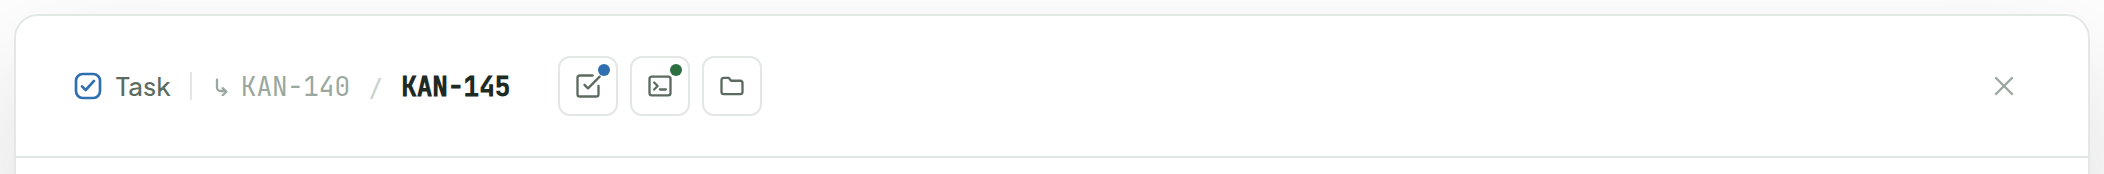
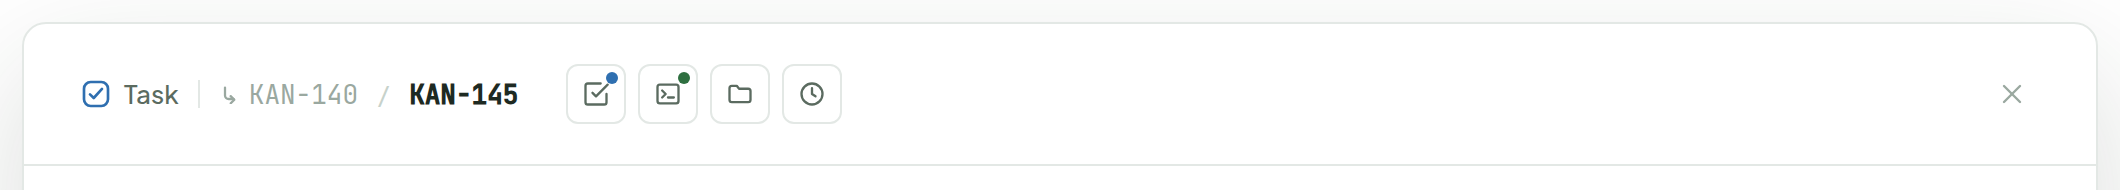
docs(design): add Activity artboard export and refresh Ticket Detail (#121)
Claude-Session: https://claude.ai/code/session_01GwZjC5kBN7drGu9LCscz4N

diff --git a/design/source/Activity.dc.html b/design/source/Activity.dc.html
@@ -1,0 +1,149 @@
+<!doctype html>
+<html lang="en">
+<head>
+  <meta charset="utf-8">
+  <script src="./support.js"></script>
+  <link rel="preconnect" href="https://fonts.googleapis.com">
+  <link href="https://fonts.googleapis.com/css2?family=Plus+Jakarta+Sans:wght@400;500;600;700;800&family=JetBrains+Mono:wght@400;500&display=swap" rel="stylesheet">
+</head>
+<body>
+<x-dc>
+<helmet>
+  <style>
+    body { margin: 0; background: #EEF3EF; font-family: 'Plus Jakarta Sans', system-ui, sans-serif; }
+    .tag-pill { padding: 2px 7px; border-radius: 3px; font-size: 10px; font-weight: 700; text-transform: uppercase; letter-spacing: 0.02em; white-space: nowrap; }
+    .dt-view-btn { display: inline-flex; align-items: center; justify-content: center; width: 30px; height: 30px; padding: 0; border-radius: 6px; border: 1px solid #E3E8E5; background: #FFFFFF; cursor: pointer; color: #5B6B60; position: relative; box-sizing: border-box; }
+    .dt-view-btn:hover { background: #F6FAF7; }
+    .dt-view-btn-active { border-color: #2E6F40; background: #F1F8F3; color: #1E2A22; }
+    .dt-view-dot { width: 6px; height: 6px; border-radius: 50%; position: absolute; top: 3px; right: 3px; }
+    .dt-view-tooltip { position: absolute; top: 36px; left: 0; padding: 5px 9px; border-radius: 6px; background: #1E2A22; color: #FFFFFF; font-size: 11px; white-space: nowrap; opacity: 0; pointer-events: none; z-index: 5; }
+    .dt-view-btn:hover .dt-view-tooltip { opacity: 1; }
+    .dt-id-btn { display: inline-flex; align-items: center; gap: 4px; background: none; border: none; padding: 3px 5px; margin: -3px -5px; border-radius: 5px; cursor: pointer; font-family: 'JetBrains Mono', monospace; font-size: 13px; font-weight: 600; color: #1E2A22; }
+    .dt-id-btn:hover { background: #F6FAF7; }
+    .ac-label { font-size: 10px; font-weight: 700; letter-spacing: 0.08em; text-transform: uppercase; color: #9AA8A0; }
+    .ac-filter { display: inline-flex; align-items: center; gap: 6px; padding: 4px 10px; border-radius: 999px; border: 1px solid #E3E8E5; background: #FFFFFF; cursor: pointer; font-size: 11.5px; font-weight: 600; color: #5B6B60; }
+    .ac-filter:hover { background: #F6FAF7; }
+    .ac-filter-active { border-color: #2E6F40; background: #F1F8F3; color: #1E2A22; }
+    .ac-group { display: flex; flex-direction: column; gap: 6px; }
+    .ac-day { display: flex; align-items: center; justify-content: space-between; padding: 6px 0; border-bottom: 1px solid #EEF3EF; font-size: 11px; font-weight: 700; letter-spacing: 0.06em; text-transform: uppercase; color: #5B6B60; }
+    .ac-day-count { font-size: 10.5px; font-weight: 500; letter-spacing: 0; text-transform: none; color: #9AA8A0; }
+    .ac-list { position: relative; display: flex; flex-direction: column; }
+    .ac-line { position: absolute; left: 13px; top: 20px; bottom: 20px; width: 1px; background: #E3E8E5; }
+    .ac-row { position: relative; display: flex; align-items: center; gap: 14px; padding: 9px 0; }
+    .ac-bubble { width: 28px; height: 28px; border-radius: 50%; display: flex; align-items: center; justify-content: center; flex-shrink: 0; box-shadow: 0 0 0 4px #FFFFFF; position: relative; box-sizing: border-box; }
+    .ac-main { flex: 1; min-width: 0; display: flex; flex-direction: column; gap: 5px; }
+    .ac-field { font-size: 10.5px; font-weight: 700; letter-spacing: 0.06em; text-transform: uppercase; color: #9AA8A0; }
+    .ac-change { display: flex; align-items: center; flex-wrap: wrap; gap: 8px; }
+    .ac-chip { display: inline-flex; align-items: center; gap: 6px; padding: 2px 9px; border-radius: 999px; border: 1px solid #E3E8E5; background: #FFFFFF; font-size: 12px; font-weight: 600; color: #1E2A22; white-space: nowrap; }
+    .ac-time { position: relative; font-family: 'JetBrains Mono', monospace; font-size: 11px; color: #9AA8A0; white-space: nowrap; cursor: default; flex-shrink: 0; }
+    .ac-tt { position: absolute; right: 0; bottom: 20px; padding: 5px 9px; border-radius: 6px; background: #1E2A22; color: #FFFFFF; font-family: 'Plus Jakarta Sans', system-ui, sans-serif; font-size: 11px; line-height: 1.4; white-space: nowrap; opacity: 0; pointer-events: none; z-index: 5; }
+    .ac-time:hover .ac-tt { opacity: 1; }
+    .ac-sk { background: #EEF3EF; display: block; animation: ac-pulse 1.4s ease-in-out infinite; }
+    @keyframes ac-pulse { 0%, 100% { opacity: 1; } 50% { opacity: 0.45; } }
+    .ac-toggle { display: inline-flex; align-items: center; gap: 5px; padding: 2px 8px; border-radius: 5px; border: none; background: none; cursor: pointer; font-size: 11.5px; font-weight: 600; color: #2E6F40; }
+    .ac-toggle:hover { background: #F1F8F3; }
+    .ac-more { display: inline-flex; align-items: center; justify-content: center; gap: 6px; align-self: center; padding: 7px 14px; border-radius: 6px; border: 1px dashed #C7D2CB; background: none; cursor: pointer; font-size: 12px; font-weight: 600; color: #5B6B60; }
+    .ac-more:hover { background: #F6FAF7; }
+  </style>
+</helmet>
+
+<div style="width: 1180px; height: 2300px; box-sizing: border-box; padding: 56px; background: #FFFFFF; display: flex; flex-direction: column; gap: 28px; color: #1E2A22;">
+
+  <div style="display: flex; flex-direction: column; gap: 8px;">
+    <div style="font-family: 'JetBrains Mono', monospace; font-size: 13px; font-weight: 500; letter-spacing: 0.08em; text-transform: uppercase; color: #68BA7F;">Component</div>
+    <h1 style="margin: 0; font-size: 26px; font-weight: 700; color: #1E2A22;">Activity</h1>
+    <div style="font-size: 14px; color: #5B6B60; max-width: 860px; line-height: 1.5;">Grounded in the app's existing <code style="font-family: 'JetBrains Mono', monospace; font-size: 12.5px; background: #F6FAF7; padding: 1px 5px; border-radius: 3px; color: #2E6F40;">ActivityLog.tsx</code> — a read-only history of field changes on a ticket — moved out of the Details column into its own icon button in the Ticket Detail header, like Test Cases, Debug Space and Workspace. Clicking it swaps the whole panel body for a timeline grouped by day.</div>
+  </div>
+
+  <!-- Populated timeline -->
+  <div style="display: flex; flex-direction: column; gap: 10px;">
+    <div style="font-size: 12px; font-weight: 600; color: #5B6B60;">Activity view — grouped by day, newest first (KAN-145)</div>
+    <div style="width: 1038px; border-radius: 12px; border: 1px solid #E3E8E5; box-shadow: 0 24px 64px rgba(30,42,34,0.16); box-sizing: border-box; background: #FFFFFF; overflow: hidden;">
+      <div style="display:flex;align-items:center;gap:24px;padding:20px 28px;border-bottom:1px solid #E3E8E5;">
+      <div style="display:flex;align-items:center;gap:10px;flex-shrink:0;">
+        <div style="display:flex;align-items:center;gap:6px;"><svg width="16" height="16" viewBox="0 0 24 24" fill="none"><rect x="3" y="3" width="18" height="18" rx="5" stroke="#2F6FB0" stroke-width="2"></rect><path d="M7.5 12.3L10.3 15L16.5 8.2" stroke="#2F6FB0" stroke-width="2" stroke-linecap="round" stroke-linejoin="round"></path></svg><span style="font-size:13px;font-weight:500;color:#5B6B60;">Task</span></div>
+        <span style="width:1px;height:14px;background:#E3E8E5;"></span>
+        <button style="display:inline-flex;align-items:center;gap:4px;background:none;border:none;padding:0;cursor:pointer;font-family:'JetBrains Mono',monospace;font-size:13px;color:#9AA8A0;"><svg width="10" height="10" viewBox="0 0 14 14" fill="none" stroke="#9AA8A0" stroke-width="1.6" stroke-linecap="round" stroke-linejoin="round"><path d="M3.5 2.5V8A2.5 2.5 0 0 0 6 10.5H9.5"></path><path d="M7.5 8.5L10 11L7.5 13.5"></path></svg>KAN-140</button>
+        <span style="font-size:13px;color:#C7D2CB;">/</span>
+        <button class="dt-id-btn" title="Back to Details">KAN-145</button>
+      </div>
+      <div style="display:flex;align-items:center;gap:6px;flex-grow:1;"><button class="dt-view-btn" aria-label="Test Cases"><svg width="14" height="14" viewBox="0 0 24 24" fill="none" stroke="currentColor" stroke-width="2" stroke-linecap="round" stroke-linejoin="round"><path d="M9 11L12 14L22 4"></path><path d="M21 12V19A2 2 0 0 1 19 21H5A2 2 0 0 1 3 19V5A2 2 0 0 1 5 3H16"></path></svg><span class="dt-view-dot" style="background:#2F6FB0;"></span><span class="dt-view-tooltip">Test — 1 pass · 1 running · 2 pending</span></button><button class="dt-view-btn" aria-label="Debug Space"><svg width="14" height="14" viewBox="0 0 24 24" fill="none" stroke="currentColor" stroke-width="2" stroke-linecap="round" stroke-linejoin="round"><rect x="3" y="4" width="18" height="16" rx="2"></rect><path d="M7 9L10 12L7 15"></path><path d="M12 15H17"></path></svg><span class="dt-view-dot" style="background:#2E6F40;"></span><span class="dt-view-tooltip">Debug — 2 entries</span></button><button class="dt-view-btn" aria-label="Workspace"><svg width="14" height="14" viewBox="0 0 24 24" fill="none" stroke="currentColor" stroke-width="2" stroke-linecap="round" stroke-linejoin="round"><path d="M3 7C3 5.9 3.9 5 5 5H9.2L11.2 7.5H19C20.1 7.5 21 8.4 21 9.5V17C21 18.1 20.1 19 19 19H5C3.9 19 3 18.1 3 17V7Z"></path></svg><span class="dt-view-tooltip">Workspace — 6 files · 12.4 MB</span></button><button class="dt-view-btn dt-view-btn-active" aria-label="Activity"><svg width="14" height="14" viewBox="0 0 24 24" fill="none" stroke="currentColor" stroke-width="2" stroke-linecap="round" stroke-linejoin="round"><circle cx="12" cy="12" r="9"></circle><path d="M12 7V12L15 14"></path></svg><span class="dt-view-tooltip">Activity — 9 changes</span></button></div>
+      <button aria-label="Close" style="width:28px;height:28px;border-radius:6px;border:none;background:none;display:flex;align-items:center;justify-content:center;cursor:pointer;color:#9AA8A0;flex-shrink:0;"><svg width="16" height="16" viewBox="0 0 24 24" fill="none" stroke="currentColor" stroke-width="1.8" stroke-linecap="round"><path d="M6 6L18 18"></path><path d="M18 6L6 18"></path></svg></button>
+    </div>
+      <div style="padding: 20px 28px 28px; display: flex; flex-direction: column; gap: 16px;">
+        <div style="display: flex; align-items: center; justify-content: space-between;">
+          <span class="ac-label" style="font-size: 11px;">9 changes · KAN-145</span>
+          <div style="display:flex;align-items:center;gap:6px;"><button class="ac-filter ac-filter-active">All (9)</button><button class="ac-filter">Status (1)</button><button class="ac-filter">Assignee (1)</button><button class="ac-filter">Priority (1)</button><button class="ac-filter">Other (6)</button></div>
+        </div>
+        <div class="ac-group"><div class="ac-day"><span>Today</span><span class="ac-day-count">2 changes</span></div><div class="ac-list"><div class="ac-line"></div><div class="ac-row"><div class="ac-bubble" style="background:#E1EEFB;color:#2F6FB0;"><svg width="14" height="14" viewBox="0 0 24 24" fill="none" stroke="currentColor" stroke-width="2" stroke-linecap="round" stroke-linejoin="round"><circle cx="12" cy="12" r="9"></circle><path d="M12 3A9 9 0 0 1 12 21Z" fill="currentColor"></path></svg></div><div class="ac-main"><span class="ac-field">Status</span><div class="ac-change"><span class="ac-chip" style=""><span style="width:7px;height:7px;border-radius:50%;background:#9AA8A0;flex-shrink:0;"></span>To Do</span><svg width="12" height="12" viewBox="0 0 24 24" fill="none" stroke="#9AA8A0" stroke-width="2" stroke-linecap="round" stroke-linejoin="round"><path d="M5 12H19"></path><path d="M13 6L19 12L13 18"></path></svg><span class="ac-chip" style=""><span style="width:7px;height:7px;border-radius:50%;background:#2F6FB0;flex-shrink:0;"></span>In Progress</span></div></div><span class="ac-time">12m ago<span class="ac-tt">Fri, Sep 25 · 9:48 AM</span></span></div><div class="ac-row"><div class="ac-bubble" style="background:#E6E9F5;color:#5B5FA8;"><svg width="14" height="14" viewBox="0 0 24 24" fill="none" stroke="currentColor" stroke-width="2" stroke-linecap="round" stroke-linejoin="round"><circle cx="12" cy="8" r="4"></circle><path d="M4 21C4 17 7.5 14.5 12 14.5S20 17 20 21"></path></svg></div><div class="ac-main"><span class="ac-field">Assignee</span><div class="ac-change"><span class="ac-chip" style="color:#9AA8A0;">Unassigned</span><svg width="12" height="12" viewBox="0 0 24 24" fill="none" stroke="#9AA8A0" stroke-width="2" stroke-linecap="round" stroke-linejoin="round"><path d="M5 12H19"></path><path d="M13 6L19 12L13 18"></path></svg><span class="ac-chip" style=""><span style="width:16px;height:16px;border-radius:50%;background:#E6E9F5;color:#5B5FA8;font-size:8px;font-weight:700;display:inline-flex;align-items:center;justify-content:center;">HM</span> Ha My</span></div></div><span class="ac-time">2h ago<span class="ac-tt">Fri, Sep 25 · 7:50 AM</span></span></div></div></div>
+        <div class="ac-group"><div class="ac-day"><span>Yesterday</span><span class="ac-day-count">3 changes</span></div><div class="ac-list"><div class="ac-line"></div><div class="ac-row" style="align-items:flex-start;"><div class="ac-bubble" style="background:#F1F3F1;color:#5B6B60;"><svg width="14" height="14" viewBox="0 0 24 24" fill="none" stroke="currentColor" stroke-width="2" stroke-linecap="round" stroke-linejoin="round"><path d="M12 20H21"></path><path d="M16.5 3.5A2.1 2.1 0 0 1 19.5 6.5L7 19L3 20L4 16Z"></path></svg></div><div class="ac-main"><span class="ac-field">Description</span><div class="ac-change"><span style="font-size:12.5px;color:#3A4A3E;">edited</span><span class="ac-chip" style="font-family:'JetBrains Mono',monospace;font-weight:500;"><span style="color:#2E6F40;">+2</span><span style="color:#C4432A;">−1</span><span style="font-family:'Plus Jakarta Sans',sans-serif;color:#5B6B60;font-weight:600;">lines</span></span><button class="ac-toggle">Hide changes<svg width="10" height="10" viewBox="0 0 24 24" fill="none" stroke="currentColor" stroke-width="2.4" stroke-linecap="round" stroke-linejoin="round"><path d="M18 15L12 9L6 15"></path></svg></button></div><div style="border:1px solid #E3E8E5;border-radius:8px;overflow:hidden;font-family:'JetBrains Mono',monospace;font-size:12px;color:#1E2A22;margin-top:4px;"><div style="display:flex;background:#FBE7E4;"><span style="width:26px;flex-shrink:0;text-align:center;color:#C4432A;font-weight:700;border-right:1px solid rgba(0,0,0,0.05);padding:3px 0;">−</span><span style="flex:1;padding:3px 10px;white-space:pre-wrap;line-height:1.55;">Add <span style="background:rgba(196,67,42,0.22);border-radius:2px;">tests for the drag handle</span>.</span></div><div style="display:flex;background:#E6F2E9;"><span style="width:26px;flex-shrink:0;text-align:center;color:#2E6F40;font-weight:700;border-right:1px solid rgba(0,0,0,0.05);padding:3px 0;">+</span><span style="flex:1;padding:3px 10px;white-space:pre-wrap;line-height:1.55;">Add <span style="background:rgba(46,111,64,0.22);border-radius:2px;">coverage for the pointer-down → drag → drop sequence on DraggableTicketCard</span>.</span></div><div style="display:flex;background:#FFFFFF;"><span style="width:26px;flex-shrink:0;text-align:center;color:#9AA8A0;font-weight:700;border-right:1px solid rgba(0,0,0,0.05);padding:3px 0;"></span><span style="flex:1;padding:3px 10px;white-space:pre-wrap;line-height:1.55;">&nbsp;</span></div><div style="display:flex;background:#E6F2E9;"><span style="width:26px;flex-shrink:0;text-align:center;color:#2E6F40;font-weight:700;border-right:1px solid rgba(0,0,0,0.05);padding:3px 0;">+</span><span style="flex:1;padding:3px 10px;white-space:pre-wrap;line-height:1.55;"><span style="background:rgba(46,111,64,0.22);border-radius:2px;">Should assert the card re-parents into the target column and the source slot's ghost state clears on drop.</span></span></div></div></div><span class="ac-time" style="padding-top:2px;">6:20 PM</span></div><div class="ac-row"><div class="ac-bubble" style="background:#FDECE0;color:#E2793D;"><svg width="14" height="14" viewBox="0 0 24 24" fill="none" stroke="currentColor" stroke-width="2" stroke-linecap="round" stroke-linejoin="round"><path d="M5 20V15"></path><path d="M10 20V11"></path><path d="M15 20V7"></path><path d="M20 20V3"></path></svg></div><div class="ac-main"><span class="ac-field">Priority</span><div class="ac-change"><span class="ac-chip" style=""><span style="width:7px;height:7px;border-radius:50%;background:#B4791E;flex-shrink:0;"></span>Medium</span><svg width="12" height="12" viewBox="0 0 24 24" fill="none" stroke="#9AA8A0" stroke-width="2" stroke-linecap="round" stroke-linejoin="round"><path d="M5 12H19"></path><path d="M13 6L19 12L13 18"></path></svg><span class="ac-chip" style=""><span style="width:7px;height:7px;border-radius:50%;background:#E2793D;flex-shrink:0;"></span>High</span></div></div><span class="ac-time">5:42 PM<span class="ac-tt">Fri, Sep 25 · 5:42 PM<br><span style="opacity:.7;">1 day ago</span></span></span></div><div class="ac-row"><div class="ac-bubble" style="background:#DCEEE1;color:#2E6F40;"><svg width="14" height="14" viewBox="0 0 24 24" fill="none" stroke="currentColor" stroke-width="2" stroke-linecap="round" stroke-linejoin="round"><path d="M20.6 13.4L13.4 20.6A2 2 0 0 1 10.6 20.6L3 13V3H13L20.6 10.6A2 2 0 0 1 20.6 13.4Z"></path><circle cx="7.5" cy="7.5" r="1" fill="currentColor"></circle></svg></div><div class="ac-main"><span class="ac-field">Tags</span><div class="ac-change"><span class="ac-chip" style="color:#9AA8A0;">none</span><svg width="12" height="12" viewBox="0 0 24 24" fill="none" stroke="#9AA8A0" stroke-width="2" stroke-linecap="round" stroke-linejoin="round"><path d="M5 12H19"></path><path d="M13 6L19 12L13 18"></path></svg><span class="tag-pill" style="background:rgba(46,111,64,0.12);color:#2E6F40;">FRONTEND</span><span class="tag-pill" style="background:rgba(47,111,176,0.12);color:#2F6FB0;">TEST</span></div></div><span class="ac-time">3:10 PM</span></div><div class="ac-row"><div class="ac-bubble" style="background:#ECE9FA;color:#6D5DD3;"><svg width="14" height="14" viewBox="0 0 24 24" fill="none" stroke="currentColor" stroke-width="2" stroke-linecap="round" stroke-linejoin="round"><circle cx="6" cy="6" r="2.5"></circle><circle cx="6" cy="18" r="2.5"></circle><circle cx="18" cy="6" r="2.5"></circle><path d="M6 8.5V15.5"></path><path d="M8.5 6H13A5 5 0 0 1 18 11V15.5"></path></svg></div><div class="ac-main"><span class="ac-field">Branch</span><div class="ac-change"><span class="ac-chip" style="color:#9AA8A0;">none</span><svg width="12" height="12" viewBox="0 0 24 24" fill="none" stroke="#9AA8A0" stroke-width="2" stroke-linecap="round" stroke-linejoin="round"><path d="M5 12H19"></path><path d="M13 6L19 12L13 18"></path></svg><span class="ac-chip" style="font-family:'JetBrains Mono',monospace;font-weight:500;">feature/drag-tests</span></div></div><span class="ac-time">11:04 AM</span></div></div></div>
+        <div class="ac-group"><div class="ac-day"><span>Sep 22</span><span class="ac-day-count">2 changes</span></div><div class="ac-list"><div class="ac-line"></div><div class="ac-row"><div class="ac-bubble" style="background:#FBF1DC;color:#B4791E;"><svg width="14" height="14" viewBox="0 0 24 24" fill="none" stroke="currentColor" stroke-width="2" stroke-linecap="round" stroke-linejoin="round"><rect x="3.5" y="5.5" width="17" height="15" rx="2.5"></rect><path d="M3.5 10H20.5"></path><path d="M8 3V6.5"></path><path d="M16 3V6.5"></path></svg></div><div class="ac-main"><span class="ac-field">Due date</span><div class="ac-change"><span class="ac-chip" style="color:#9AA8A0;">none</span><svg width="12" height="12" viewBox="0 0 24 24" fill="none" stroke="#9AA8A0" stroke-width="2" stroke-linecap="round" stroke-linejoin="round"><path d="M5 12H19"></path><path d="M13 6L19 12L13 18"></path></svg><span class="ac-chip" style="">Sep 24</span></div></div><span class="ac-time">4:31 PM</span></div><div class="ac-row" style="align-items:flex-start;"><div class="ac-bubble" style="background:#F1F3F1;color:#5B6B60;"><svg width="14" height="14" viewBox="0 0 24 24" fill="none" stroke="currentColor" stroke-width="2" stroke-linecap="round" stroke-linejoin="round"><path d="M12 20H21"></path><path d="M16.5 3.5A2.1 2.1 0 0 1 19.5 6.5L7 19L3 20L4 16Z"></path></svg></div><div class="ac-main"><span class="ac-field">Description</span><div class="ac-change"><span style="font-size:12.5px;color:#3A4A3E;">edited</span><span class="ac-chip" style="font-family:'JetBrains Mono',monospace;font-weight:500;"><span style="color:#2E6F40;">+14</span><span style="color:#C4432A;">−0</span><span style="font-family:'Plus Jakarta Sans',sans-serif;color:#5B6B60;font-weight:600;">lines</span></span><button class="ac-toggle">Show changes<svg width="10" height="10" viewBox="0 0 24 24" fill="none" stroke="currentColor" stroke-width="2.4" stroke-linecap="round" stroke-linejoin="round"><path d="M6 9L12 15L18 9"></path></svg></button></div></div><span class="ac-time" style="padding-top:2px;">2:05 PM</span></div><div class="ac-row"><div class="ac-bubble" style="background:#F1F3F1;color:#5B6B60;"><svg width="14" height="14" viewBox="0 0 24 24" fill="none" stroke="currentColor" stroke-width="2" stroke-linecap="round" stroke-linejoin="round"><path d="M12 20H21"></path><path d="M16.5 3.5A2.1 2.1 0 0 1 19.5 6.5L7 19L3 20L4 16Z"></path></svg></div><div class="ac-main"><span class="ac-field">Title</span><div class="ac-change"><span class="ac-chip" style="color:#9AA8A0;text-decoration:line-through;text-decoration-color:#C7D2CB;">Drag handle tests</span><svg width="12" height="12" viewBox="0 0 24 24" fill="none" stroke="#9AA8A0" stroke-width="2" stroke-linecap="round" stroke-linejoin="round"><path d="M5 12H19"></path><path d="M13 6L19 12L13 18"></path></svg><span class="ac-chip" style="">Write unit tests for drag handle</span></div></div><span class="ac-time">9:15 AM</span></div></div></div>
+      </div>
+    </div>
+  </div>
+
+  <!-- Hover + states -->
+  <div style="display: flex; gap: 32px; align-items: flex-start;">
+
+    <div style="display: flex; flex-direction: column; gap: 10px;">
+      <div style="font-size: 12px; font-weight: 600; color: #5B6B60;">Hover a time — full date and relative age</div>
+      <div style="width: 500px; border: 1px solid #E3E8E5; border-radius: 12px; box-shadow: 0 16px 40px rgba(30,42,34,0.10); box-sizing: border-box; padding: 40px 20px 14px; background: #FFFFFF;">
+        <div class="ac-list"><div class="ac-line"></div><div class="ac-row"><div class="ac-bubble" style="background:#FDECE0;color:#E2793D;"><svg width="14" height="14" viewBox="0 0 24 24" fill="none" stroke="currentColor" stroke-width="2" stroke-linecap="round" stroke-linejoin="round"><path d="M5 20V15"></path><path d="M10 20V11"></path><path d="M15 20V7"></path><path d="M20 20V3"></path></svg></div><div class="ac-main"><span class="ac-field">Priority</span><div class="ac-change"><span class="ac-chip" style=""><span style="width:7px;height:7px;border-radius:50%;background:#B4791E;flex-shrink:0;"></span>Medium</span><svg width="12" height="12" viewBox="0 0 24 24" fill="none" stroke="#9AA8A0" stroke-width="2" stroke-linecap="round" stroke-linejoin="round"><path d="M5 12H19"></path><path d="M13 6L19 12L13 18"></path></svg><span class="ac-chip" style=""><span style="width:7px;height:7px;border-radius:50%;background:#E2793D;flex-shrink:0;"></span>High</span></div></div><span class="ac-time">5:42 PM<span class="ac-tt" style="opacity:1;">Fri, Sep 25 · 5:42 PM<br><span style="opacity:.7;">1 day ago</span></span></span></div></div>
+      </div>
+    </div>
+
+    <div style="display: flex; flex-direction: column; gap: 10px;">
+      <div style="font-size: 12px; font-weight: 600; color: #5B6B60;">Empty — nothing has changed yet</div>
+      <div style="width: 506px; border: 1px solid #E3E8E5; border-radius: 12px; box-shadow: 0 16px 40px rgba(30,42,34,0.10); box-sizing: border-box; overflow: hidden; background: #FFFFFF;">
+        <div style="padding: 14px 18px; border-bottom: 1px solid #E3E8E5;"><span class="ac-label" style="font-size: 11px;">0 changes · KAN-150</span></div>
+        <div style="display: flex; flex-direction: column; align-items: center; gap: 8px; padding: 36px 24px;">
+          <div style="width: 36px; height: 36px; border-radius: 50%; background: #F6FAF7; color: #9AA8A0; display: flex; align-items: center; justify-content: center;"><svg width="14" height="14" viewBox="0 0 24 24" fill="none" stroke="currentColor" stroke-width="2" stroke-linecap="round" stroke-linejoin="round"><circle cx="12" cy="12" r="9"></circle><path d="M12 7V12L15 14"></path></svg></div>
+          <div style="font-size: 13.5px; font-weight: 600; color: #1E2A22;">No activity yet</div>
+          <div style="font-size: 12px; color: #9AA8A0; text-align: center; max-width: 300px; line-height: 1.5;">Changes to status, assignee, priority and other fields will show up here.</div>
+        </div>
+      </div>
+    </div>
+  </div>
+
+  <div style="display: flex; gap: 32px; align-items: flex-start;">
+
+    <div style="display: flex; flex-direction: column; gap: 10px;">
+      <div style="font-size: 12px; font-weight: 600; color: #5B6B60;">Long history — latest 20, older changes load on demand</div>
+      <div style="width: 500px; border: 1px solid #E3E8E5; border-radius: 12px; box-shadow: 0 16px 40px rgba(30,42,34,0.10); box-sizing: border-box; padding: 16px 20px 18px; background: #FFFFFF; display: flex; flex-direction: column; gap: 10px;">
+        <div class="ac-list"><div class="ac-line"></div><div class="ac-row"><div class="ac-bubble" style="background:#E1EEFB;color:#2F6FB0;"><svg width="14" height="14" viewBox="0 0 24 24" fill="none" stroke="currentColor" stroke-width="2" stroke-linecap="round" stroke-linejoin="round"><circle cx="12" cy="12" r="9"></circle><path d="M12 3A9 9 0 0 1 12 21Z" fill="currentColor"></path></svg></div><div class="ac-main"><span class="ac-field">Status</span><div class="ac-change"><span class="ac-chip" style=""><span style="width:7px;height:7px;border-radius:50%;background:#6D5DD3;flex-shrink:0;"></span>Review</span><svg width="12" height="12" viewBox="0 0 24 24" fill="none" stroke="#9AA8A0" stroke-width="2" stroke-linecap="round" stroke-linejoin="round"><path d="M5 12H19"></path><path d="M13 6L19 12L13 18"></path></svg><span class="ac-chip" style=""><span style="width:7px;height:7px;border-radius:50%;background:#2E6F40;flex-shrink:0;"></span>Done</span></div></div><span class="ac-time">Sep 14</span></div><div class="ac-row"><div class="ac-bubble" style="background:#E6E9F5;color:#5B5FA8;"><svg width="14" height="14" viewBox="0 0 24 24" fill="none" stroke="currentColor" stroke-width="2" stroke-linecap="round" stroke-linejoin="round"><circle cx="12" cy="8" r="4"></circle><path d="M4 21C4 17 7.5 14.5 12 14.5S20 17 20 21"></path></svg></div><div class="ac-main"><span class="ac-field">Assignee</span><div class="ac-change"><span class="ac-chip" style=""><span style="width:16px;height:16px;border-radius:50%;background:#DCEEE1;color:#2E6F40;font-size:8px;font-weight:700;display:inline-flex;align-items:center;justify-content:center;">AN</span> An</span><svg width="12" height="12" viewBox="0 0 24 24" fill="none" stroke="#9AA8A0" stroke-width="2" stroke-linecap="round" stroke-linejoin="round"><path d="M5 12H19"></path><path d="M13 6L19 12L13 18"></path></svg><span class="ac-chip" style=""><span style="width:16px;height:16px;border-radius:50%;background:#E6E9F5;color:#5B5FA8;font-size:8px;font-weight:700;display:inline-flex;align-items:center;justify-content:center;">HM</span> Ha My</span></div></div><span class="ac-time">Sep 12</span></div></div>
+        <button class="ac-more">Show 12 earlier changes</button>
+      </div>
+    </div>
+
+    <div style="display: flex; flex-direction: column; gap: 10px;">
+      <div style="font-size: 12px; font-weight: 600; color: #5B6B60;">Loading — skeleton rows while the log is fetched</div>
+      <div style="width: 506px; border: 1px solid #E3E8E5; border-radius: 12px; box-shadow: 0 16px 40px rgba(30,42,34,0.10); box-sizing: border-box; padding: 16px 20px 18px; background: #FFFFFF;">
+        <div class="ac-list"><div class="ac-row"><div class="ac-bubble ac-sk"></div><div class="ac-main" style="gap:8px;"><span class="ac-sk" style="height:9px;width:54px;border-radius:5px;"></span><span class="ac-sk" style="height:20px;width:150px;border-radius:999px;"></span></div><span class="ac-sk" style="height:9px;width:40px;border-radius:5px;"></span></div><div class="ac-row"><div class="ac-bubble ac-sk"></div><div class="ac-main" style="gap:8px;"><span class="ac-sk" style="height:9px;width:54px;border-radius:5px;"></span><span class="ac-sk" style="height:20px;width:190px;border-radius:999px;"></span></div><span class="ac-sk" style="height:9px;width:56px;border-radius:5px;"></span></div><div class="ac-row"><div class="ac-bubble ac-sk"></div><div class="ac-main" style="gap:8px;"><span class="ac-sk" style="height:9px;width:54px;border-radius:5px;"></span><span class="ac-sk" style="height:20px;width:120px;border-radius:999px;"></span></div><span class="ac-sk" style="height:9px;width:48px;border-radius:5px;"></span></div></div>
+      </div>
+    </div>
+  </div>
+
+  <div style="font-size: 11.5px; color: #9AA8A0; line-height: 1.6; max-width: 900px;">
+    <div style="font-weight: 700; color: #5B6B60; margin-bottom: 4px;">Note</div>
+    <ul style="margin: 0; padding-left: 18px; display: flex; flex-direction: column; gap: 3px;">
+      <li>Icon button is the same 30px square as the others, with no status dot — the log has nothing that is failing. Hover shows "Activity — N changes". Clicking the ticket id returns to Details.</li>
+      <li>Each row is one field change: a tinted icon bubble per field (status, assignee, priority, title, tags, branch, due date), the field name, then <em>from → to</em> as chips. A missing value reads "none" or "Unassigned" in muted text; an old title is struck through.</li>
+      <li>Status, priority and assignee reuse the chip colours from the rest of the app. Times read relative today ("12m ago") and as a clock time on older days; hovering shows the full date.</li>
+      <li>Filter chips narrow the list by field group; counts are per group. Day headers show the number of changes that day.</li>
+      <li>Description edits can be long, so the row shows only "edited" and a +/− line count; "Show changes" expands an inline diff right under it — removed lines in red, added lines in green, with the changed words highlighted. Collapsed by default.</li>
+      <li>Read-only: nothing here is editable and there is no add button.</li>
+      <li>TODO(backend): <code style="font-family: 'JetBrains Mono', monospace;">ActivityEntry</code> has only <code style="font-family: 'JetBrains Mono', monospace;">field</code>, <code style="font-family: 'JetBrains Mono', monospace;">from</code>, <code style="font-family: 'JetBrains Mono', monospace;">to</code>, <code style="font-family: 'JetBrains Mono', monospace;">at</code> — no author, so rows show no avatar. Once the API records who made the change, an avatar goes before the time. Paging ("Show N earlier") also needs the API to page the log; until then the full list is loaded and trimmed on the client.</li>
+    </ul>
+  </div>
+
+</div>
+</x-dc>
+<script data-dc-script data-props='{"$preview":{"width":1180,"height":2300}}'>
+class Component extends DCLogic {
+  renderVals() {
+    return {};
+  }
+}
+</script>
+</body>
+</html>

diff --git a/design/source/TicketDetail.dc.html b/design/source/TicketDetail.dc.html
@@ -86,6 +86,10 @@
           <svg width="14" height="14" viewBox="0 0 24 24" fill="none" stroke="currentColor" stroke-width="2" stroke-linecap="round" stroke-linejoin="round"><path d="M3 7C3 5.9 3.9 5 5 5H9.2L11.2 7.5H19C20.1 7.5 21 8.4 21 9.5V17C21 18.1 20.1 19 19 19H5C3.9 19 3 18.1 3 17V7Z"></path></svg>
           <span class="dt-view-tooltip">Workspace — 6 files · 12.4 MB</span>
         </button>
+        <button class="dt-view-btn" aria-label="Activity">
+          <svg width="14" height="14" viewBox="0 0 24 24" fill="none" stroke="currentColor" stroke-width="2" stroke-linecap="round" stroke-linejoin="round"><circle cx="12" cy="12" r="9"></circle><path d="M12 7V12L15 14"></path></svg>
+          <span class="dt-view-tooltip">Activity — 9 changes</span>
+        </button>
       </div>
 
       <button aria-label="Close" style="width: 28px; height: 28px; border-radius: 6px; border: none; background: none; display: flex; align-items: center; justify-content: center; cursor: pointer; color: #9AA8A0; flex-shrink: 0;">
@@ -311,7 +315,7 @@
 
     </div>
   </div>
-  <div style="font-size: 11.5px; color: #9AA8A0; line-height: 1.5; max-width: 700px; margin-top: -12px;">Replaces the old "Test Cases" section that used to live inside Details — more views (e.g. Activity, Work Log) can land as more icon buttons here later. Icon only, with a red dot when anything's failing (gray/green otherwise) — hover for the pass/fail/pending breakdown. No "Details" button needed to switch back — clicking the ticket id itself returns to Details, same as it already does everywhere else in the app. Clicking it swaps the whole panel body for the test list — see the dedicated <strong style="color: #5B6B60;">Test Cases</strong> board for that full state.</div>
+  <div style="font-size: 11.5px; color: #9AA8A0; line-height: 1.5; max-width: 700px; margin-top: -12px;">Replaces the old "Test Cases" section that used to live inside Details — more views (e.g. Work Log) can land as more icon buttons here later. The clock icon opens Activity — see the dedicated <strong style="color: #5B6B60;">Activity</strong> board. Icon only, with a red dot when anything's failing (gray/green otherwise) — hover for the pass/fail/pending breakdown. No "Details" button needed to switch back — clicking the ticket id itself returns to Details, same as it already does everywhere else in the app. Clicking it swaps the whole panel body for the test list — see the dedicated <strong style="color: #5B6B60;">Test Cases</strong> board for that full state.</div>
 
 </div>
 </x-dc>

diff --git a/design/components/activity.md b/design/components/activity.md
@@ -1,0 +1,63 @@
+# Activity
+
[1 lines of base64/hex data omitted]
+
+Grounded in the app's existing `ActivityLog.tsx` — a read-only history of field changes on a ticket — moved out of the Details column into its own icon button in the Ticket Detail header, like Test Cases, Debug Space and Workspace. Clicking it swaps the whole panel body for a timeline grouped by day.
+
+---
+
+## 1. Activity view — grouped by day, newest first (KAN-145)
+
+Source: [Activity.dc.html](../source/Activity.dc.html) › `<!-- Populated timeline -->` (L58–84)
+
+![Activity panel: header with the clock icon active, filter chips, and a timeline grouped Today / Yesterday / Sep 22, including an expanded description diff](../images/activity/activity-1-timeline.png)
+
+- Header: the Activity clock icon is the fourth view button (after Test Cases, Debug Space, Workspace) and is shown active. Clicking the ticket id returns to Details.
+- Toolbar: `9 changes · KAN-145` with filter chips `All (9)`, `Status (1)`, `Assignee (1)`, `Priority (1)`, `Other (6)`.
+- Day headers (`Today`, `Yesterday`, `Sep 22`) carry the number of changes that day.
+- Each row is one field change: a tinted icon bubble per field (status, assignee, priority, description/title, tags, branch, due date), the field name, then *from → to* as chips. A missing value reads "none" or "Unassigned" in muted text; an old title is struck through.
+- Status, priority and assignee reuse the chip colours used elsewhere in the app.
+- Times read relative today (`12m ago`, `2h ago`) and as a clock time on older days (`5:42 PM`).
+- Description edits show "edited" and a `+/−` line count; **Show changes / Hide changes** toggles an inline diff under the row — removed lines in red, added lines in green, changed words highlighted. Collapsed by default (Sep 22 row shows the collapsed state, `+14 −0 lines`; the Yesterday row is expanded: `+2 −1 lines`).
+
+## 2. Hover a time — full date and relative age
+
+Source: [Activity.dc.html](../source/Activity.dc.html) › `<!-- Hover + states -->` (L85–95)
+
+![A priority row with its time hovered: tooltip "Fri, Sep 25 · 5:42 PM / 1 day ago"](../images/activity/activity-2-hover-time.png)
+
+- Hovering the time shows a tooltip with the full date and the relative age.
+
+## 3. Empty — nothing has changed yet
+
+Source: [Activity.dc.html](../source/Activity.dc.html) › `<!-- Hover + states -->` (L96–110)
+
+![Empty state: clock icon, "No activity yet", helper text](../images/activity/activity-3-empty.png)
+
+- Header reads `0 changes · KAN-150`; body: "No activity yet" and "Changes to status, assignee, priority and other fields will show up here."
+
+## 4. Long history — latest 20, older changes load on demand
+
+Source: [Activity.dc.html](../source/Activity.dc.html) › `<!-- Hover + states -->` (L111–118)
+
+![Last rows of a long list followed by a dashed "Show 12 earlier changes" button](../images/activity/activity-4-long-history.png)
+
+- A dashed **Show 12 earlier changes** button sits under the list; the latest 20 are shown and older ones load on demand.
+
+## 5. Loading — skeleton rows while the log is fetched
+
+Source: [Activity.dc.html](../source/Activity.dc.html) › `<!-- Hover + states -->` (L119–125)
+
+![Three skeleton rows with pulsing grey bars](../images/activity/activity-5-loading.png)
+
+- Three skeleton rows (bubble, field label, chip, time) with a gentle pulse.
+
+## Note
+
+- Icon button is the same 30px square as the others, with no status dot — the log has nothing that is failing. Hover shows "Activity — N changes". Clicking the ticket id returns to Details.
+- Each row is one field change: a tinted icon bubble per field (status, assignee, priority, title, tags, branch, due date), the field name, then *from → to* as chips. A missing value reads "none" or "Unassigned" in muted text; an old title is struck through.
+- Status, priority and assignee reuse the chip colours from the rest of the app. Times read relative today ("12m ago") and as a clock time on older days; hovering shows the full date.
+- Filter chips narrow the list by field group; counts are per group. Day headers show the number of changes that day.
+- Description edits can be long, so the row shows only "edited" and a +/− line count; "Show changes" expands an inline diff right under it — removed lines in red, added lines in green, with the changed words highlighted. Collapsed by default.
+- Read-only: nothing here is editable and there is no add button.
+- TODO(backend): `ActivityEntry` has only `field`, `from`, `to`, `at` — no author, so rows show no avatar. Once the API records who made the change, an avatar goes before the time. Paging ("Show N earlier") also needs the API to page the log; until then the full list is loaded and trimmed on the client.

diff --git a/design/components/ticket-detail.md b/design/components/ticket-detail.md
@@ -1,6 +1,6 @@
 # Ticket Detail
 
[2 lines of base64/hex data omitted]
 
 Opens over the board on click. Same visual language as the card — same icon, priority marks, tag pills and sub-task chip — just given room to breathe.
 
@@ -12,13 +12,14 @@ The panel is a header bar over a two-column body (main column + sidebar). It is 
 
 Source: [TicketDetail.dc.html](../source/TicketDetail.dc.html) › `<!-- Header -->` (L58–95)
 
-![Ticket Detail header — type, parent KAN-140, id KAN-145, three icon view buttons, close](../images/ticket-detail/ticket-detail-1-header-bar.png)
+![Ticket Detail header — type, parent KAN-140, id KAN-145, four icon view buttons, close](../images/ticket-detail/ticket-detail-1-header-bar.png)
 
-- Left to right: ticket type (Task), parent link (KAN-140), current ticket id (**KAN-145**), then three icon-only view buttons (Test, Debug, Workspace), and a close button on the right.
+- Left to right: ticket type (Task), parent link (KAN-140), current ticket id (**KAN-145**), then four icon-only view buttons (Test, Debug, Workspace, Activity), and a close button on the right.
 - Each icon button shows a tooltip on hover (real hover works live in the canvas):
   - Test — `Test — 1 pass · 1 running · 2 pending`
   - Debug — `Debug — 2 entries`
   - Workspace — `Workspace — 6 files · 12.4 MB`
+  - Activity — `Activity — 9 changes` (see [activity.md](activity.md); no status dot)
 - The Test button carries a status dot (blue here; red when anything is failing, gray/green otherwise).
 
 ## 2. Main column — title, description, sub-tasks, acceptance criteria

diff --git a/design/README.md b/design/README.md
@@ -2,8 +2,8 @@
 
 Redesign reference for the Kanban Board app (React UI in `ui/`), exported from the Claude Design canvas so it can be reviewed and implemented against without opening the canvas.
 
-- **Canvas:** https://claude.ai/artifact/B3jiFjnoEL9erRN7QYRHj2
-- **Canvas version exported:** `1789831198-eb58` (26 artboards) — see [`MANIFEST.json`](MANIFEST.json) for per-file sha256, size and export date.
+- **Canvas (design source of truth):** https://claude.ai/artifact/B3jiFjnoEL9erRN7QYRHj2
+- **Canvas version exported:** `1791005836-9c57` (27 artboards; docs for unchanged artboards keep their original header version, each `sha256` in the doc header and `MANIFEST.json` is authoritative) — see [`MANIFEST.json`](MANIFEST.json) for per-file sha256, size and export date.
 
 ## Layout
 
@@ -25,6 +25,7 @@ Each doc's header links to its source file and records the canvas version and sh
 
 ### Components
 
+- [Activity](components/activity.md)
 - [Add / Edit / Delete Acceptance Criterion](components/add-ac.md)
 - [Add Sub-ticket](components/add-subticket.md)
 - [Attachments](components/attachments.md)
